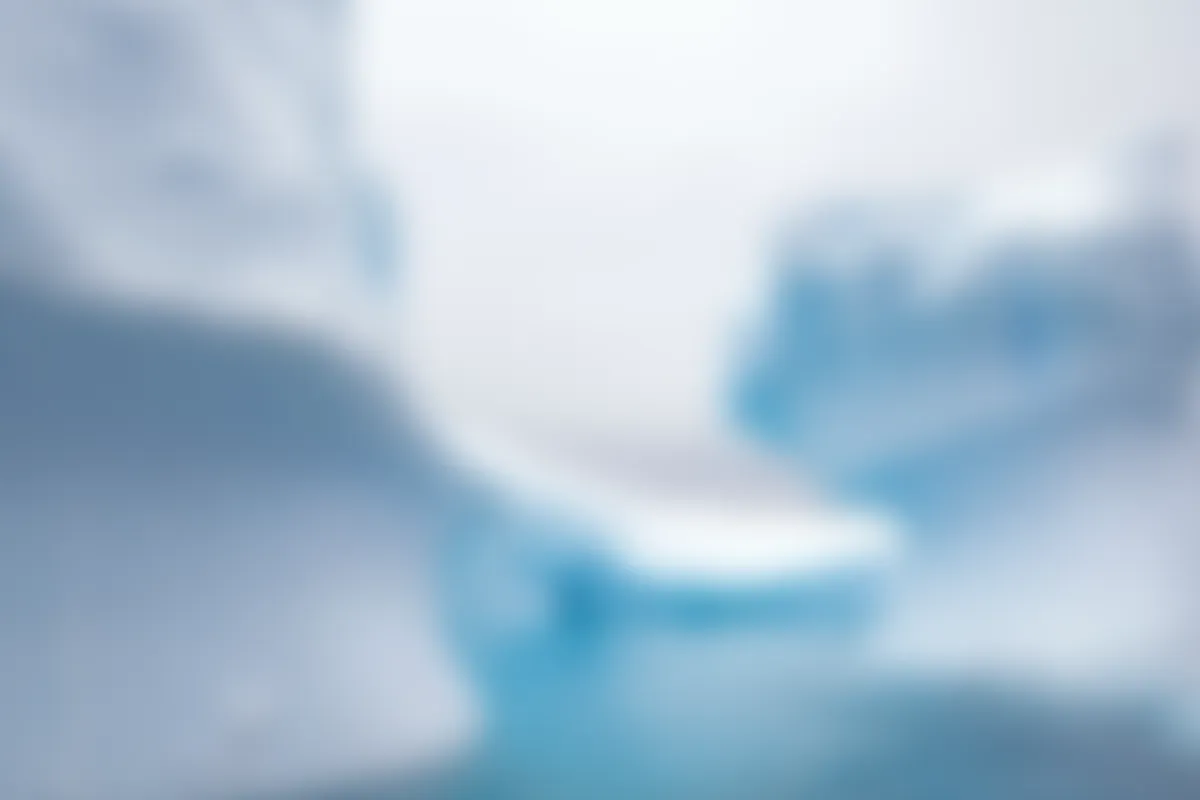
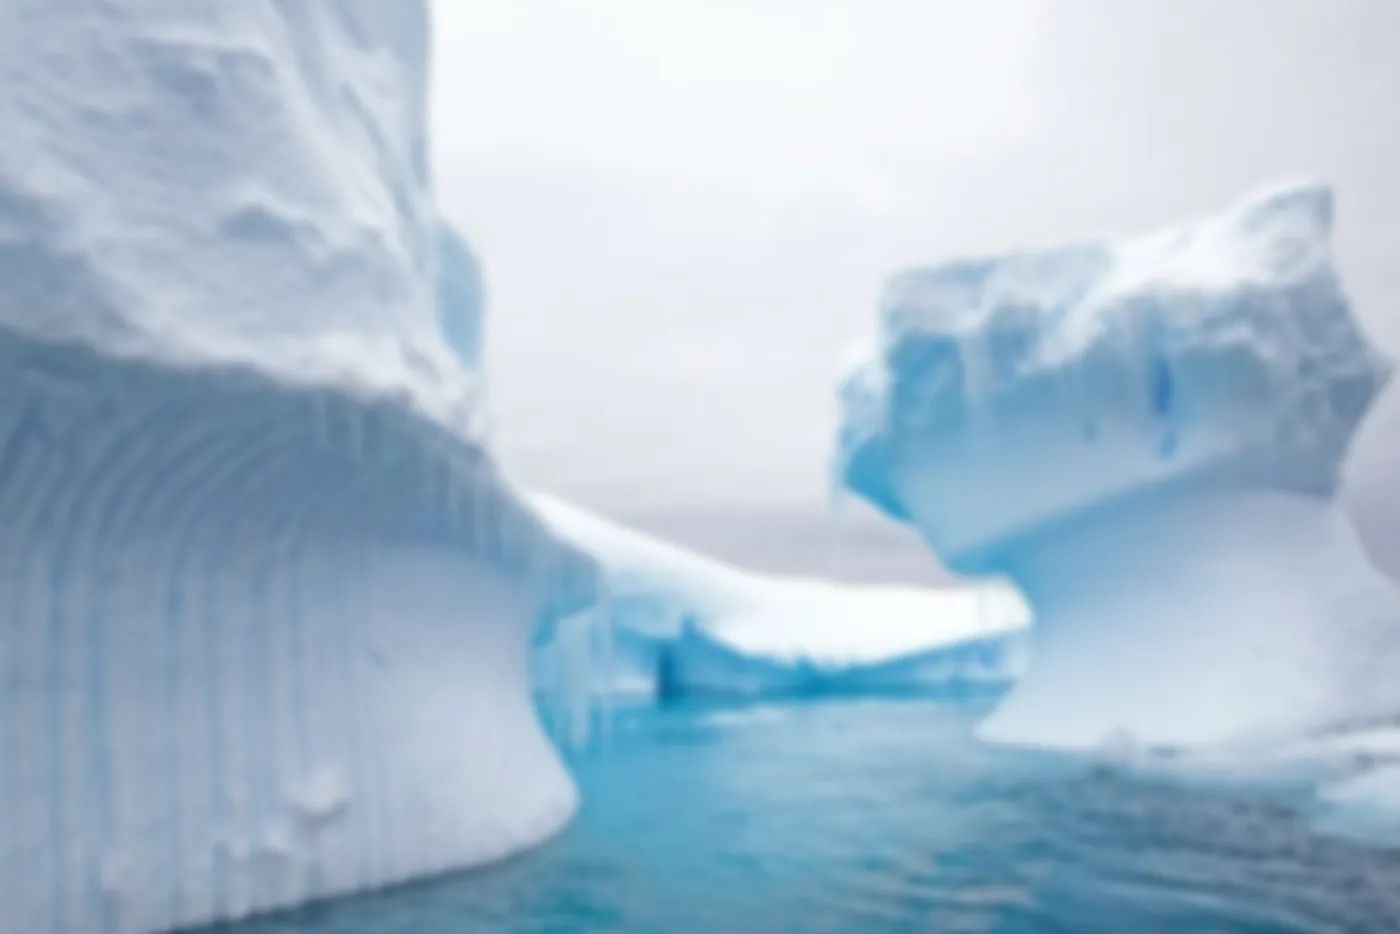
Instagram em grade de imagens, menu fixo de largura total e CTA menos desfocado

diff --git a/script.js b/script.js
@@ -1,5 +1,8 @@
 // ============ MENU ============
 const nav = document.querySelector('.nav');
+const marcarRolagem = () => nav.classList.toggle('rolou', window.scrollY > 20);
+window.addEventListener('scroll', marcarRolagem, { passive: true });
+marcarRolagem();
 const btnMenu = document.querySelector('.btn-menu');
 btnMenu.addEventListener('click', () => {
   const aberto = nav.classList.toggle('aberto');
@@ -200,7 +203,7 @@ window.addEventListener('scroll', () => requestAnimationFrame(animarGaleria), { 
 window.addEventListener('resize', () => { medirFotos(); animarGaleria(); });
 
 // ============ FUNDOS EM DEGRADÊ ============
-// Os degradês do Framer (fundo da página e da seção do Instagram) recriados sem imagem.
+// O degradê do Framer do fundo da página recriado sem imagem.
 // Cores medidas numa grade de pontos da imagem original — só verde e azul, o vermelho é sempre ~0.
 // O desenho passa uma curva suave pelos pontos e aplica um grão leve antes de arredondar as cores,
 // o que evita as "faixas" típicas de degradê escuro.
@@ -295,74 +298,7 @@ const DEGRADES = {
       [50,54,59,62,66,70,72],
       [50,57,62,65,70,72,77]
     ],
-  },
-  // seção do Instagram: imagem original 2480×3508, grade de 29 linhas × 21 colunas
-  insta: {
-    proporcao: 2480 / 3508,
-    grao: 4,
-    G: [
-      [3,3,3,3,3,4,5,6,7,9,12,16,20,25,34,51,65,81,98,115,127],
-      [3,3,3,3,4,4,6,7,10,13,17,21,26,32,43,65,80,97,113,128,138],
-      [3,3,3,4,4,6,8,10,14,19,23,29,36,45,59,79,102,119,133,145,153],
-      [3,3,3,4,6,7,10,15,20,25,32,40,50,62,80,97,121,139,151,161,168],
-      [3,3,4,5,7,9,14,19,25,33,42,52,63,78,99,117,141,157,167,173,174],
-      [3,3,4,5,8,12,17,23,31,41,53,64,75,90,113,132,155,170,176,176,176],
-      [3,4,4,6,9,14,19,27,37,49,61,73,86,102,122,143,162,176,177,176,173],
-      [3,4,5,6,10,15,21,29,41,54,67,80,95,111,130,148,164,176,175,170,164],
-      [3,4,5,7,10,16,22,31,43,57,70,83,99,116,132,147,159,168,165,155,147],
-      [3,4,5,7,10,15,22,31,43,57,70,84,99,114,128,140,149,155,149,138,130],
-      [3,4,5,6,10,15,21,30,42,55,69,83,97,109,120,128,133,136,131,120,110],
-      [3,4,5,6,9,14,21,29,41,54,68,80,93,103,110,113,118,113,110,100,90],
-      [3,4,5,7,10,15,21,29,41,54,67,79,89,97,100,98,102,94,86,79,69],
-      [4,4,6,8,11,16,22,31,43,55,67,78,86,91,90,85,82,76,69,61,52],
-      [4,5,7,10,14,19,26,35,47,59,70,78,84,86,83,76,67,58,48,43,36],
-      [5,6,9,14,20,26,33,42,54,64,73,80,83,82,76,68,58,46,35,28,23],
-      [5,8,12,20,29,38,47,54,66,75,79,83,83,78,71,61,49,37,27,20,16],
-      [7,10,17,28,39,52,65,74,83,92,96,90,84,75,66,54,41,30,22,16,11],
-      [8,13,23,36,49,65,80,92,98,105,108,104,93,77,62,48,35,25,18,12,8],
-      [10,16,29,44,60,76,93,109,119,121,117,109,96,79,58,42,30,21,14,9,7],
-      [11,19,34,50,68,86,104,118,129,133,128,115,96,78,59,40,27,18,12,8,5],
-      [12,22,37,55,74,93,109,123,131,134,130,119,101,80,61,41,26,16,10,6,5],
-      [13,23,40,58,77,95,110,122,128,130,124,112,95,75,56,39,25,15,9,6,5],
-      [14,24,42,60,78,94,107,117,122,122,115,104,87,69,51,36,24,14,9,6,5],
-      [14,25,42,60,77,91,102,109,112,110,104,94,79,63,48,35,23,15,9,7,5],
-      [14,25,43,60,76,87,96,100,101,100,94,84,72,58,46,34,25,17,11,8,6],
-      [14,25,43,60,75,84,89,92,92,90,84,76,66,56,46,36,27,20,14,10,8],
-      [14,25,43,60,74,82,85,86,85,82,77,71,63,55,47,39,31,24,18,14,11],
-      [14,25,43,60,72,80,82,82,80,77,73,67,61,55,49,41,34,27,21,16,13]
-    ],
-    B: [
-      [34,34,34,34,35,36,37,39,42,45,49,54,61,69,77,84,97,111,125,140,152],
-      [34,34,34,35,36,37,39,42,45,50,56,63,72,81,90,98,111,125,139,154,164],
-      [34,34,35,36,37,39,43,47,52,59,68,77,88,100,113,122,132,145,158,171,178],
-      [34,34,35,37,39,42,47,53,61,71,82,93,107,120,132,146,155,165,176,184,188],
-      [34,35,36,38,41,45,51,60,71,83,97,111,127,140,151,164,172,180,188,193,194],
-      [34,35,36,39,43,48,57,68,80,95,111,128,145,162,171,183,188,191,195,196,196],
-      [34,35,37,40,44,51,61,74,88,105,124,143,161,178,190,197,199,196,197,195,193],
-      [35,35,38,41,46,53,65,78,94,113,133,153,171,186,195,200,201,197,195,190,185],
-      [35,36,38,41,46,54,66,80,97,117,138,158,176,189,196,200,201,193,186,179,173],
-      [35,36,38,41,46,54,66,79,97,117,138,159,176,188,194,198,198,184,175,164,155],
-      [35,35,38,41,45,53,65,78,96,115,137,157,174,185,191,194,187,172,158,145,136],
-      [35,36,38,41,45,52,64,77,94,113,134,154,169,180,185,185,171,161,143,127,118],
-      [35,36,38,41,46,53,64,77,94,113,133,151,165,173,176,173,157,145,127,109,101],
-      [36,37,39,43,48,55,67,80,97,115,134,150,162,167,167,160,145,129,111,93,84],
-      [36,38,41,46,51,60,72,86,103,120,138,151,159,161,157,147,132,116,99,80,72],
-      [37,40,45,50,58,68,80,96,112,129,143,154,158,156,148,135,118,102,85,71,62],
-      [39,42,49,56,65,75,88,108,123,138,151,158,158,151,139,123,106,89,75,62,54],
-      [41,46,54,63,73,84,98,117,133,145,154,161,157,146,131,113,95,79,66,54,48],
-      [43,49,59,70,82,97,110,126,145,156,159,157,149,139,123,104,86,71,58,48,44],
-      [45,53,64,77,92,107,121,135,149,161,163,159,147,130,115,96,78,64,52,45,41],
-      [47,55,68,83,100,115,130,144,154,160,160,155,142,124,104,86,71,58,48,42,39],
-      [48,58,71,88,105,121,135,148,156,159,155,145,129,112,94,77,65,54,46,41,38],
-      [50,59,74,91,108,123,136,147,154,155,149,138,123,106,89,73,61,52,44,40,37],
-      [50,60,75,92,108,122,133,142,147,147,141,130,116,100,84,70,60,51,44,40,38],
-      [51,60,75,92,107,119,128,135,137,136,131,122,109,95,81,69,59,51,45,41,39],
-      [51,60,76,92,106,116,123,127,128,126,121,113,103,91,79,69,60,53,47,43,40],
-      [51,61,76,92,105,113,118,120,120,118,113,107,98,88,79,70,62,56,51,46,43],
-      [51,61,77,93,105,111,114,115,114,111,108,102,95,88,80,73,66,60,55,50,47],
-      [50,61,76,92,103,110,111,111,110,107,104,99,93,87,81,75,68,63,58,53,50]
-    ],
-  },
+  }
 };
 
 // Catmull-Rom: curva suave que passa exatamente pelos pontos medidos
@@ -430,16 +366,6 @@ const FUNDOS = [
     caixa: document.querySelector('.fundo'),
     tamanho: (w, h) => { const s = Math.min(1, Math.sqrt(3.5e6 / (w * h))); return [w * s, h * s]; },
     grade: DEGRADES.pagina,
-  },
-  {
-    // Instagram: mantém a proporção da imagem original e cobre a seção (object-fit: cover no CSS)
-    caixa: document.querySelector('.insta-fundo'),
-    tamanho: (w, h) => {
-      const p = DEGRADES.insta.proporcao;
-      const largura = Math.max(w, h * p) * .7;
-      return [largura, largura / p];
-    },
-    grade: DEGRADES.insta,
   },
 ];
 

diff --git a/styles.css b/styles.css
@@ -38,24 +38,27 @@ a:focus-visible, button:focus-visible, summary:focus-visible { outline: 2px soli
 .reveal.visivel { opacity: 1; transform: none; }
 
 /* ============ NAV ============ */
+/* barra fixa de largura total; conteúdo alinhado às seções */
 .nav {
   position: fixed;
-  top: 23px;
-  left: 50%;
-  transform: translateX(-50%);
-  width: min(1085px, calc(100% - 32px));
-  height: 85px;
-  padding: 0 25px 0 29px;
+  top: 0; left: 0; right: 0;
+  height: 80px;
+  padding: 0 max(32px, calc((100% - 1340px) / 2));
   display: flex;
   align-items: center;
   justify-content: space-between;
-  background: rgba(2, 8, 40, .8);
-  border: 1px solid rgba(255, 255, 255, .1);
-  box-shadow: 0 10px 40px rgba(0, 4, 30, .25);
-  backdrop-filter: blur(14px) saturate(140%);
-  -webkit-backdrop-filter: blur(14px) saturate(140%);
-  border-radius: 12px;
+  background: rgba(1, 6, 34, .55);
+  border-bottom: 1px solid rgba(255, 255, 255, .08);
+  backdrop-filter: blur(16px) saturate(140%);
+  -webkit-backdrop-filter: blur(16px) saturate(140%);
+  transition: background .3s ease, box-shadow .3s ease, height .3s ease;
   z-index: 100;
+}
+/* depois de rolar um pouco, a barra fica mais sólida e um pouco mais baixa */
+.nav.rolou {
+  height: 68px;
+  background: rgba(1, 6, 34, .9);
+  box-shadow: 0 8px 30px rgba(0, 2, 20, .35);
 }
 .nav-logo img { width: 135px; height: auto; }
 .nav-actions { display: flex; align-items: center; gap: 10px; }
@@ -528,39 +531,28 @@ a:focus-visible, button:focus-visible, summary:focus-visible { outline: 2px soli
 
 /* ============ INSTAGRAM ============ */
 .insta {
+  padding: 90px max(50px, calc((100% - 1340px) / 2));
+}
+.insta-grade { display: grid; grid-template-columns: repeat(3, 1fr); }
+.insta-item {
   position: relative;
-  isolation: isolate;
-  overflow: hidden;
-  padding: 137px 20px 100px;
-  text-align: center;
-}
-/* degradê desenhado pelo script.js (igual ao do Framer); o CSS abaixo é só a reserva até ele rodar */
-.insta-fundo {
-  position: absolute; inset: 0; z-index: -1;
-  background:
-    radial-gradient(55% 45% at 85% 30%, rgba(1, 160, 190, .8), transparent 70%),
-    radial-gradient(50% 40% at 20% 75%, rgba(0, 100, 130, .7), transparent 70%),
-    #000a2e;
-}
-.insta-fundo canvas { position: absolute; inset: 0; width: 100%; height: 100%; object-fit: cover; }
-.insta h2 { font-weight: 500; font-size: 41.6px; line-height: 1.2; letter-spacing: -.8px; }
-.insta h2 span { color: var(--ciano); }
-.insta-posts {
-  margin-top: 35px;
-  display: flex; justify-content: center; gap: 14px; flex-wrap: wrap;
-}
-/* Moldura que mostra só o cabeçalho + a mídia do post (corta curtidas e comentários) */
-.insta-post {
-  width: 326px; height: 462px;
-  overflow: hidden;
-  border-radius: 4px;
-  background: #fff;
-}
-.insta-posts iframe {
   display: block;
-  width: 326px; height: 700px;
-  border: 0;
+  aspect-ratio: 4 / 5;
+  overflow: hidden;
+  background: #020c33;
 }
+.insta-item img { width: 100%; height: 100%; object-fit: cover; transition: transform .6s ease; }
+.insta-icone {
+  position: absolute; inset: 0;
+  display: grid; place-items: center;
+  background: rgba(1, 8, 40, .45);
+  color: #fff;
+  opacity: 0;
+  transition: opacity .3s ease;
+}
+.insta-icone svg { width: 46px; height: 46px; }
+.insta-item:hover img { transform: scale(1.04); }
+.insta-item:hover .insta-icone, .insta-item:focus-visible .insta-icone { opacity: 1; }
 
 /* ============ FAQ ============ */
 .faq {
@@ -684,9 +676,9 @@ a:focus-visible, button:focus-visible, summary:focus-visible { outline: 2px soli
 .footer-cta {
   display: flex; justify-content: space-between; align-items: center; gap: 40px;
   padding: 50px 60px;
-  /* foto de icebergs desfocada (já vem desfocada no arquivo) + camada azul-escura para o texto ficar legível */
+  /* foto de icebergs levemente desfocada (já vem assim no arquivo) + camada azul-escura para o texto ficar legível */
   background:
-    linear-gradient(100deg, rgba(1, 8, 40, .9) 0%, rgba(0, 22, 75, .72) 50%, rgba(0, 45, 110, .5) 100%),
+    linear-gradient(100deg, rgba(1, 8, 40, .88) 0%, rgba(0, 20, 70, .6) 45%, rgba(0, 40, 100, .22) 100%),
     url(assets/cta-gelo.webp) center / cover no-repeat,
     #020c33;
   border: 1px solid rgba(255, 255, 255, .14);
@@ -777,7 +769,8 @@ a:focus-visible, button:focus-visible, summary:focus-visible { outline: 2px soli
 }
 
 @media (max-width: 640px) {
-  .nav { top: 12px; height: 68px; padding: 0 12px 0 16px; }
+  .nav, .nav.rolou { height: 64px; padding: 0 16px; }
+  .nav-menu { right: 16px; }
   .nav-logo img { width: 105px; }
   .btn-saiba { height: 40px; padding: 0 14px; font-size: 15px; }
   .btn-menu { width: 40px; height: 40px; }
@@ -822,9 +815,11 @@ a:focus-visible, button:focus-visible, summary:focus-visible { outline: 2px soli
   .dep-stat { width: 100%; }
   .dep-card { width: 300px; padding: 30px; }
 
-  .insta { padding: 80px 16px; }
-  .insta h2 { font-size: 30px; }
-  .insta-post { width: 326px; }
+  .insta { padding: 60px 0; }
+  /* no celular os posts passam de lado, arrastando */
+  .insta-grade { display: flex; overflow-x: auto; scroll-snap-type: x mandatory; scrollbar-width: none; }
+  .insta-grade::-webkit-scrollbar { display: none; }
+  .insta-item { flex: 0 0 82vw; scroll-snap-align: center; }
 
   .faq { padding: 70px 16px 40px; }
   .faq-card { padding: 40px 24px; }

diff --git a/index.html b/index.html
@@ -237,13 +237,21 @@
   </section>
 
   <!-- ============ INSTAGRAM ============ -->
-  <section class="insta">
-    <div class="insta-fundo" aria-hidden="true"><canvas></canvas></div>
-    <h2>Nos acompanhe no <span>Instagram</span></h2>
-    <div class="insta-posts">
-      <div class="insta-post"><iframe src="https://www.instagram.com/p/DWC1_jRDagd/embed/" title="Post do Instagram da Arttico" loading="lazy" scrolling="no"></iframe></div>
-      <div class="insta-post"><iframe src="https://www.instagram.com/p/Db6kQj-E3V9/embed/" title="Post do Instagram da Arttico" loading="lazy" scrolling="no"></iframe></div>
-      <div class="insta-post"><iframe src="https://www.instagram.com/p/DbbqvZ5gtVI/embed/" title="Post do Instagram da Arttico" loading="lazy" scrolling="no"></iframe></div>
+  <!-- só as imagens dos posts lado a lado; cada uma abre o post no Instagram -->
+  <section class="insta" aria-label="Posts do Instagram da Arttico">
+    <div class="insta-grade">
+      <a class="insta-item" href="https://www.instagram.com/p/DWC1_jRDagd/" target="_blank" rel="noopener">
+        <img src="assets/insta-1.webp" alt="Post do Instagram: depoimento de cliente da Dentalmed" loading="lazy">
+        <span class="insta-icone"><svg viewBox="0 0 24 24" fill="none" stroke="currentColor" stroke-width="2" stroke-linecap="round" stroke-linejoin="round"><rect x="3" y="3" width="18" height="18" rx="5"/><circle cx="12" cy="12" r="4"/><path d="M17.5 6.5h.01"/></svg></span>
+      </a>
+      <a class="insta-item" href="https://www.instagram.com/p/Db6kQj-E3V9/" target="_blank" rel="noopener">
+        <img src="assets/insta-2.webp" alt="Post do Instagram: o anúncio gerou o clique" loading="lazy">
+        <span class="insta-icone"><svg viewBox="0 0 24 24" fill="none" stroke="currentColor" stroke-width="2" stroke-linecap="round" stroke-linejoin="round"><rect x="3" y="3" width="18" height="18" rx="5"/><circle cx="12" cy="12" r="4"/><path d="M17.5 6.5h.01"/></svg></span>
+      </a>
+      <a class="insta-item" href="https://www.instagram.com/p/DbbqvZ5gtVI/" target="_blank" rel="noopener">
+        <img src="assets/insta-3.webp" alt="Post do Instagram: seu negócio pode estar crescendo e perdendo dinheiro ao mesmo tempo" loading="lazy">
+        <span class="insta-icone"><svg viewBox="0 0 24 24" fill="none" stroke="currentColor" stroke-width="2" stroke-linecap="round" stroke-linejoin="round"><rect x="3" y="3" width="18" height="18" rx="5"/><circle cx="12" cy="12" r="4"/><path d="M17.5 6.5h.01"/></svg></span>
+      </a>
     </div>
   </section>
 
